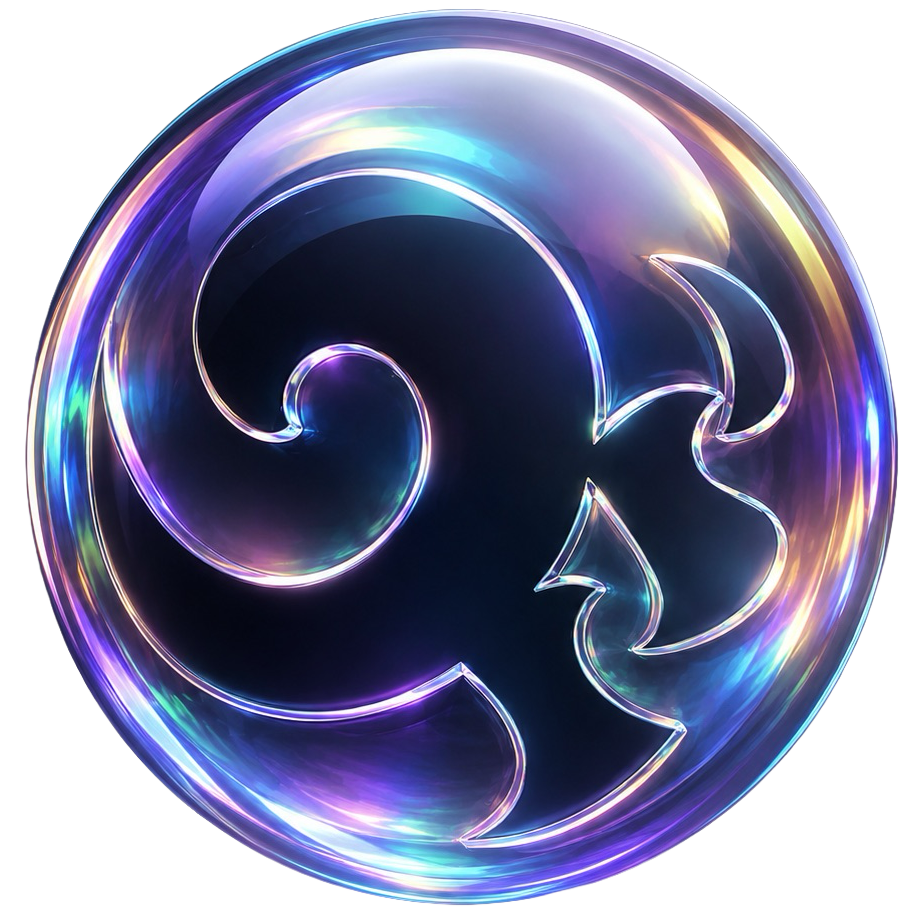
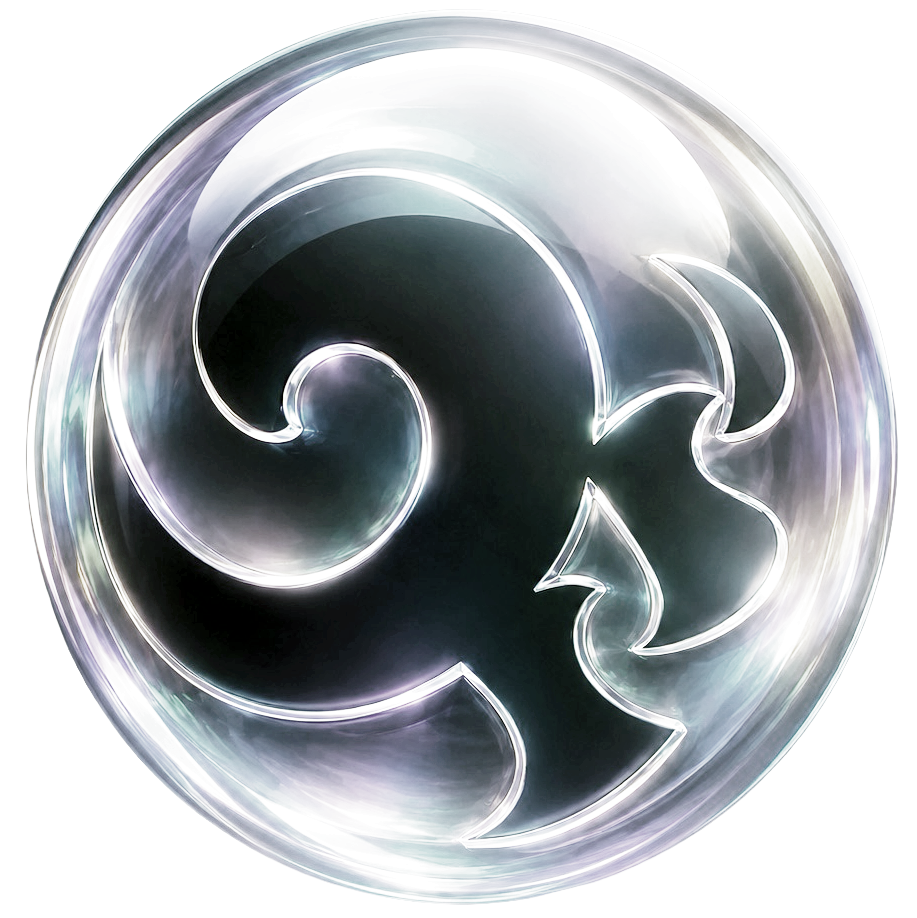
General UI/UX update 4

diff --git a/src/hooks/useSignalDriftText.js b/src/hooks/useSignalDriftText.js
@@ -1,0 +1,104 @@
+import { useEffect, useMemo, useRef, useState } from 'react';
+
+const FRAME_MS = 52;
+const FRAMES_PER_BURST = 4;
+const FIRST_BURST_DELAY_MS = 650;
+const MIN_IDLE_MS = 1200;
+const MAX_IDLE_MS = 2400;
+
+const pick = (items) => items[Math.floor(Math.random() * items.length)];
+
+const uniqueChars = (value) => [...new Set([...value].filter((char) => char !== ' '))];
+
+const useSignalDriftText = (target, { active = true } = {}) => {
+  const [display, setDisplay] = useState(target);
+  const timeoutRef = useRef(null);
+
+  const charPool = useMemo(() => uniqueChars(target), [target]);
+
+  useEffect(() => {
+    if (timeoutRef.current) {
+      window.clearTimeout(timeoutRef.current);
+      timeoutRef.current = null;
+    }
+
+    setDisplay(target);
+
+    if (!active || !target || typeof window === 'undefined') {
+      return undefined;
+    }
+
+    const prefersReducedMotion = window.matchMedia?.('(prefers-reduced-motion: reduce)')?.matches;
+    if (prefersReducedMotion) {
+      return undefined;
+    }
+
+    const chars = [...target];
+    const mutableIndices = chars.reduce((indices, char, index) => {
+      if (char !== ' ') indices.push(index);
+      return indices;
+    }, []);
+    const hashIndex = chars.indexOf('#');
+    const nonHashPool = charPool.filter((char) => char !== '#');
+    let cancelled = false;
+
+    const randomIdleDelay = () => MIN_IDLE_MS + Math.floor(Math.random() * (MAX_IDLE_MS - MIN_IDLE_MS));
+
+    const buildFrame = () => {
+      const result = [...chars];
+      const shouldMoveHash = hashIndex >= 0 && nonHashPool.length > 0 && Math.random() < 0.52;
+
+      if (shouldMoveHash) {
+        const targetIndex = pick(mutableIndices.filter((index) => index !== hashIndex));
+        result[hashIndex] = pick(nonHashPool);
+        result[targetIndex] = '#';
+        return result.join('');
+      }
+
+      const mutationCount = 1 + Math.floor(Math.random() * 2);
+      for (let i = 0; i < mutationCount; i += 1) {
+        const targetIndex = pick(mutableIndices);
+        result[targetIndex] = pick(charPool);
+      }
+
+      return result.join('');
+    };
+
+    const schedule = (delay) => {
+      timeoutRef.current = window.setTimeout(runBurst, delay);
+    };
+
+    function runBurst() {
+      let frame = 0;
+
+      const step = () => {
+        if (cancelled) return;
+        if (frame >= FRAMES_PER_BURST) {
+          setDisplay(target);
+          schedule(randomIdleDelay());
+          return;
+        }
+
+        setDisplay(buildFrame());
+        frame += 1;
+        timeoutRef.current = window.setTimeout(step, FRAME_MS);
+      };
+
+      step();
+    }
+
+    schedule(FIRST_BURST_DELAY_MS);
+
+    return () => {
+      cancelled = true;
+      if (timeoutRef.current) {
+        window.clearTimeout(timeoutRef.current);
+        timeoutRef.current = null;
+      }
+    };
+  }, [active, charPool, target]);
+
+  return display;
+};
+
+export default useSignalDriftText;

diff --git a/src/components/Hero.jsx b/src/components/Hero.jsx
@@ -6,11 +6,12 @@ const TicketPurchaseModal = React.lazy(() => import('@/components/TicketPurchase
 const GatokensRevealModal = React.lazy(() => import('@/components/GatokensRevealModal'));
 const MiniverseModal = React.lazy(() => import('@/components/MiniverseModal'));
 const VideoNarrativeAutoplay = React.lazy(() => import('@/components/VideoNarrativeAutoplay'));
-import isotipoGatoWebp from '@/assets/isotipo-gato.webp';
+const isotipoGatoWebp = '/assets/isotipo_hero.png';
 const HashtagButton3D = React.lazy(() => import('@/components/HashtagButton3D'));
 import { useNavigate, useLocation } from 'react-router-dom';
 import { useToast } from '@/components/ui/use-toast';
 import { useAuth } from '@/contexts/SupabaseAuthContext';
+import useSignalDriftText from '@/hooks/useSignalDriftText';
 import { consumeBienvenidaGatokensRevealPending, setBienvenidaReturnPath } from '@/lib/bienvenida';
 import {
   getHeroAmbientAudio,
@@ -46,14 +47,15 @@ const HERO_LOGGED_IN_ACTIVE_GLOW =
 const HERO_LOGGED_IN_SWEEP_GLOW =
   'radial-gradient(circle,rgba(31,47,99,0.3)_0%,rgba(110,48,171,0.22)_44%,rgba(217,31,139,0.1)_74%,rgba(0,0,0,0)_100%)';
 const HERO_PENDING_MINIVERSE_SELECTION_KEY = 'gatoencerrado:hero-inline-miniverse-selection';
+const HERO_TITLE = '#GATOENCERRADO';
 const HERO_ROTATING_SUBTITLES = [
   'Una experiencia narrativa interactiva',
-  'Basada en "Es un gato encerrado"',
-  'La obra que ocurre en tu mente',
+  'Basada en Es un gato encerrado',
+  'La obra ocurre en tu mente',
     
   ];
 const HERO_GHOST_SUBTITLES = [
-  'Teatro que no se mira. Se habita.',
+  'No es teatro que se mira. Se habita.',
   'Tal vez la obra ya empezó en ti',
    
 ];
@@ -123,6 +125,7 @@ const Hero = () => {
   const navigate = useNavigate();
   const location = useLocation();
   const { user, loading: isAuthLoading } = useAuth();
+  const heroTitleDisplay = useSignalDriftText(HERO_TITLE, { active: !hasActivatedAudio && !user });
   const { toast } = useToast();
   const narrativeVideoUrl = isMobileViewport ? null : NARRATIVE_VIDEO_URL_DESKTOP;
 
@@ -857,9 +860,10 @@ const Hero = () => {
                     className="hero-logo w-24 sm:w-28 md:w-32 cursor-pointer"
                     onClick={handleIsotipoClick}
                     role="button"
-                    aria-label={isHeroAudioMuted ? 'Activar sonido' : 'Silenciar sonido'}
+                    aria-label={!hasActivatedAudio ? 'Conocer la escena' : isHeroAudioMuted ? 'Activar sonido' : 'Silenciar sonido'}
                   >
                     <motion.div
+                      className="hero-logo-visual"
                       animate={showAudioHint ? { scale: [1, 1.07, 1] } : { scale: 1 }}
                       transition={showAudioHint
                         ? { duration: 1.6, ease: 'easeInOut', repeat: 2 }
@@ -875,14 +879,14 @@ const Hero = () => {
                     </motion.div>
                   </motion.div>
                   <span
-                    className="pointer-events-none mt-2.5 select-none whitespace-nowrap text-[0.62rem] uppercase tracking-widest text-slate-300/70"
+                    className="pointer-events-none mt-2.5 select-none whitespace-nowrap text-[0.72rem] leading-snug tracking-[0.14em] text-slate-300/75"
                     style={{
-                      opacity: showAudioHint ? 0.75 : 0,
+                      opacity: showAudioHint ? 0.82 : 0,
                       transform: showAudioHint ? 'translateY(0)' : 'translateY(-3px)',
                       transition: 'opacity 0.6s ease, transform 0.6s ease',
                     }}
                   >
-                    Activa la escena
+                    Conóceme
                   </span>
                 </div>
               </div>
@@ -892,8 +896,9 @@ const Hero = () => {
                 <h1
                   className="hero-title text-4xl sm:text-5xl md:text-6xl lg:text-7xl font-medium text-center w-full break-words"
                   style={{ textShadow: '0 0 35px rgba(255, 223, 255, 0.45)' }}
+                  aria-label={HERO_TITLE}
                 >
-                  #GATOENCERRADO
+                  <span aria-hidden="true">{heroTitleDisplay}</span>
                 </h1>
                 <motion.div
                   initial={{ opacity: 0, y: 8 }}
@@ -901,7 +906,7 @@ const Hero = () => {
                   transition={{ duration: hasActivatedAudio ? 1.1 : 0, ease: 'easeOut' }}
                   className="mt-2 flex justify-center px-3"
                 >
-                  <span className="relative inline-flex min-h-[2.8rem] max-w-[42rem] items-center justify-center text-center text-sm leading-tight tracking-widest uppercase text-slate-400/60 sm:min-h-[1.8rem]">
+                  <span className="relative inline-flex min-h-[2.8rem] max-w-[42rem] items-center justify-center text-center text-[0.78rem] leading-snug tracking-[0.18em] text-slate-300/70 sm:min-h-[1.8rem] sm:text-sm">
                     <span className="invisible">{HERO_ROTATING_SUBTITLE_PLACEHOLDER}</span>
                     <AnimatePresence mode="sync" initial={false}>
                       <motion.span
@@ -999,9 +1004,9 @@ const Hero = () => {
                       : { opacity: 0, y: 6, filter: 'blur(10px)' }
                   }
                   transition={{ duration: 0.7, ease: [0.22, 1, 0.36, 1] }}
-                  className="select-none text-[0.62rem] uppercase tracking-[0.3em] text-zinc-300/45 sm:text-[0.68rem]"
+                  className="select-none text-[0.72rem] leading-snug tracking-[0.14em] text-slate-300/65 sm:text-[0.78rem]"
                 >
-                  Pulsa el gato
+                  Pulsa este gato
                 </motion.p>
               </motion.div>
 

diff --git a/src/index.css b/src/index.css
@@ -165,26 +165,37 @@ body {
 .hero-logo {
   position: relative;
   display: inline-block;
+  aspect-ratio: 1;
+  overflow: visible;
+  --hero-logo-visual-scale: 1.16;
 }
 
 .hero-logo::before {
   content: '';
   position: absolute;
-  inset: -22%;
+  inset: -30%;
   background: radial-gradient(circle, rgba(233, 213, 255, 0.55) 0%, rgba(233, 213, 255, 0.18) 38%, transparent 70%);
   filter: blur(14px);
   opacity: 0.9;
-  transform: translateZ(0);
+  transform: translate3d(0, -2%, 0) scale(var(--hero-logo-visual-scale));
   pointer-events: none;
+  z-index: 0;
+}
+
+.hero-logo-visual {
+  position: absolute;
+  inset: 0;
+  z-index: 1;
 }
 
 .hero-logo-img {
   display: block;
   width: 100%;
-  height: auto;
+  height: 100%;
+  object-fit: contain;
   -webkit-filter: drop-shadow(0 12px 45px rgba(233, 213, 255, 0.35));
   filter: drop-shadow(0 12px 45px rgba(233, 213, 255, 0.35));
-  transform: translateZ(0);
+  transform: translate3d(0, -2%, 0) scale(var(--hero-logo-visual-scale));
   will-change: filter, transform;
 }
 

diff --git a/src/App.jsx b/src/App.jsx
@@ -141,9 +141,9 @@ const HERO_BACKGROUND_VARIANTS = {
     className: 'absolute inset-0 h-full w-full object-cover',
     style: {
       opacity: 0.44,
-      filter: 'contrast(78%) brightness(72%) saturate(88%)',
+      filter: 'contrast(128%) brightness(72%) saturate(70%)',
       objectPosition: '50% 28%',
-      transform: 'translateY(11%) scale(1.4)',
+      transform: 'translateY(9%) scale(1.24)',
     },
   },
   authenticated: {